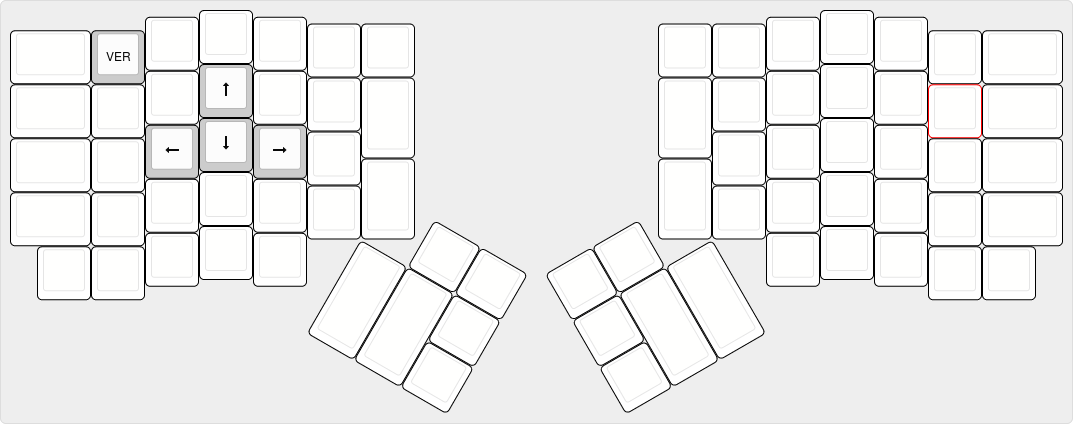
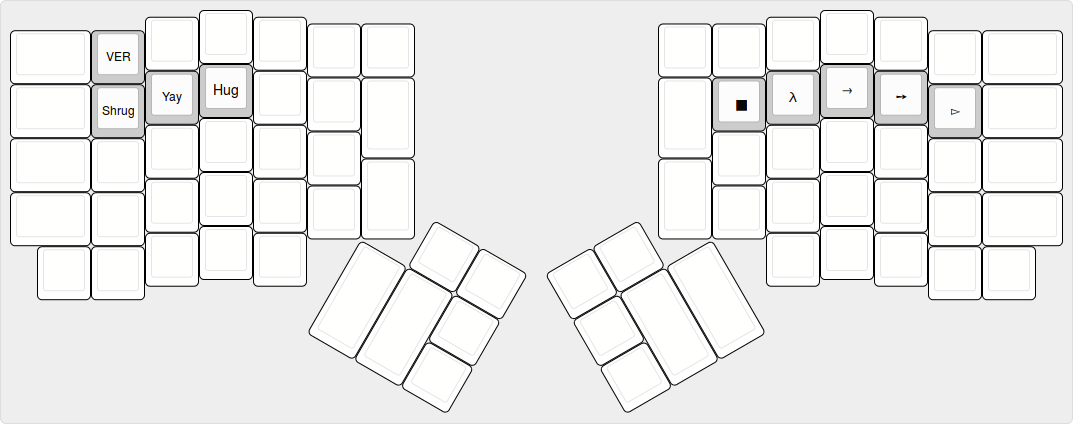
[deadcyclo layout] Added unicode layer

Changed region(s): [[0.0615, 0.1533, 0.3075, 0.4292], [0.6459, 0.1533, 0.9226, 0.3373], [0.0923, 0.1226, 0.123, 0.1533]]

diff --git a/keyboards/ergodox/keymaps/deadcyclo/keymap.c b/keyboards/ergodox/keymaps/deadcyclo/keymap.c
@@ -12,7 +12,10 @@ enum custom_keycodes {
   PLACEHOLDER = SAFE_RANGE, // can always be here
   EPRM,
   VRSN,
-  RGB_SLD
+  RGB_SLD,
+  SHRUG,
+  YAY,
+  HUG
 };
 
 // TODO: Get rid of of keys I don't want. Make others that I do. Set up lots of makros (Using hyper (and meh)) keys (where to put them?)
@@ -103,14 +106,14 @@ const uint16_t PROGMEM keymaps[][MATRIX_ROWS][MATRIX_COLS] = {
        KC_TRNS,
        EPRM, KC_DEL, KC_TRNS
 ),
-/* Keymap 2: Media and mouse keys
+/* Keymap 2: Media, mouse and navigation
  *
  * ,--------------------------------------------------.           ,--------------------------------------------------.
  * |        |      |      |      |      |      |      |           |      |      |      |      |      |      |        |
  * |--------+------+------+------+------+-------------|           |------+------+------+------+------+------+--------|
- * |        |      |      | MsUp |      |      |      |           |      |      |      |      |      |      |        |
+ * |        |      |      | MsUp |      |      |      |           |      |      |      |  Up  |      |      |        |
  * |--------+------+------+------+------+------|      |           |      |------+------+------+------+------+--------|
- * |        |      |MsLeft|MsDown|MsRght|      |------|           |------|      |      |      |      |      |  Play  |
+ * |        |      |MsLeft|MsDown|MsRght|      |------|           |------|      | Left | Down | Right|      |  Play  |
  * |--------+------+------+------+------+------|      |           |      |------+------+------+------+------+--------|
  * |        |      |      |      |      |      |      |           |      |      |      | Prev | Next |      |        |
  * `--------+------+------+------+------+-------------'           `-------------+------+------+------+------+--------'
@@ -124,7 +127,7 @@ const uint16_t PROGMEM keymaps[][MATRIX_ROWS][MATRIX_COLS] = {
  *                                 |      |      |      |       |      |      |      |
  *                                 `--------------------'       `--------------------'
  */
-// MEDIA AND MOUSE
+// MEDIA , MOUSE and NAVIGATION
 [MDIA] = KEYMAP(
        KC_TRNS, KC_TRNS, KC_TRNS, KC_TRNS, KC_TRNS, KC_TRNS, KC_TRNS,
        KC_TRNS, KC_TRNS, KC_TRNS, KC_MS_U, KC_TRNS, KC_TRNS, KC_TRNS,
@@ -135,24 +138,24 @@ const uint16_t PROGMEM keymaps[][MATRIX_ROWS][MATRIX_COLS] = {
                                                     KC_TRNS,
                                   KC_TRNS, KC_TRNS, KC_TRNS,
     // right hand
-       KC_TRNS,  KC_TRNS, KC_TRNS, KC_TRNS, KC_TRNS, KC_TRNS, KC_TRNS,
-       KC_TRNS,  KC_TRNS, KC_TRNS, KC_TRNS, KC_TRNS, KC_TRNS, KC_TRNS,
-                 KC_TRNS, KC_TRNS, KC_TRNS, KC_TRNS, KC_TRNS, KC_MPLY,
-       KC_TRNS,  KC_TRNS, KC_TRNS, KC_MPRV, KC_MNXT, KC_TRNS, KC_TRNS,
-                          KC_VOLU, KC_VOLD, KC_MUTE, KC_TRNS, KC_TRNS,
+       KC_TRNS,  KC_TRNS, KC_TRNS, KC_TRNS, KC_TRNS,  KC_TRNS, KC_TRNS,
+       KC_TRNS,  KC_TRNS, KC_TRNS, KC_UP,   KC_TRNS,  KC_TRNS, KC_TRNS,
+                 KC_TRNS, KC_LEFT, KC_DOWN, KC_RIGHT, KC_TRNS, KC_MPLY,
+       KC_TRNS,  KC_TRNS, KC_TRNS, KC_MPRV, KC_MNXT,  KC_TRNS, KC_TRNS,
+                          KC_VOLU, KC_VOLD, KC_MUTE,  KC_TRNS, KC_TRNS,
        KC_TRNS, KC_TRNS,
        KC_TRNS,
        KC_TRNS, KC_TRNS, KC_WBAK
 ),
 
-/* Keymap 3: Navigation TODO: Printscreen, pg up down, home, end, others? Insert for example
+/* Keymap 3: Unicode
  *
  * ,--------------------------------------------------.           ,--------------------------------------------------.
  * |        | VER  |      |      |      |      |      |           |      |      |      |      |      |      |        |
  * |--------+------+------+------+------+-------------|           |------+------+------+------+------+------+--------|
- * |        |      |      |  up  |      |      |      |           |      |      |      |      |      |      |        |
+ * |        | Shrug| yay  | hug  |      |      |      |           |      |  ■   |  λ   |  →   |  ➙   |  ▻   |        |
  * |--------+------+------+------+------+------|      |           |      |------+------+------+------+------+--------|
- * |        |      | left | down | right|      |------|           |------|      |      |      |      |      |        |
+ * |        |      |      |      |      |      |------|           |------|      |      |      |      |      |        |
  * |--------+------+------+------+------+------|      |           |      |------+------+------+------+------+--------|
  * |        |      |      |      |      |      |      |           |      |      |      |      |      |      |        |
  * `--------+------+------+------+------+-------------'           `-------------+------+------+------+------+--------'
@@ -166,11 +169,11 @@ const uint16_t PROGMEM keymaps[][MATRIX_ROWS][MATRIX_COLS] = {
  *                                 |      |      |      |       |      |      |      |
  *                                 `--------------------'       `--------------------'
  */
-// NAVIGATION
+// Unicode
 [NAVG] = KEYMAP(
        KC_TRNS, VRSN, KC_TRNS, KC_TRNS, KC_TRNS, KC_TRNS, KC_TRNS,
-       KC_TRNS, KC_TRNS, KC_TRNS, KC_UP, KC_TRNS, KC_TRNS, KC_TRNS,
-       KC_TRNS, KC_TRNS, KC_LEFT, KC_DOWN, KC_RGHT, KC_TRNS,
+       KC_TRNS, SHRUG, YAY, HUG, KC_TRNS, KC_TRNS, KC_TRNS,
+       KC_TRNS, KC_TRNS, KC_TRNS, KC_TRNS, KC_TRNS, KC_TRNS,
        KC_TRNS, KC_TRNS, KC_TRNS, KC_TRNS, KC_TRNS, KC_TRNS, KC_TRNS,
        KC_TRNS, KC_TRNS, KC_TRNS, KC_TRNS, KC_TRNS,
                                            KC_TRNS, KC_TRNS,
@@ -178,7 +181,7 @@ const uint16_t PROGMEM keymaps[][MATRIX_ROWS][MATRIX_COLS] = {
                                   KC_TRNS, KC_TRNS, KC_TRNS,
     // right hand
        KC_TRNS,  KC_TRNS, KC_TRNS, KC_TRNS, KC_TRNS, KC_TRNS, KC_TRNS,
-       KC_TRNS,  KC_TRNS, KC_TRNS, KC_TRNS, KC_TRNS, KC_TRNS, KC_TRNS,
+       KC_TRNS,  UC(0x25a0), UC(0x03bb), UC(0x2192), UC(0x2799), UC(0x25bb), KC_TRNS,
                  KC_TRNS, KC_TRNS, KC_TRNS, KC_TRNS, KC_TRNS, KC_TRNS,
        KC_TRNS,  KC_TRNS, KC_TRNS, KC_MPRV, KC_TRNS, KC_TRNS, KC_TRNS,
                           KC_TRNS, KC_TRNS, KC_TRNS, KC_TRNS, KC_TRNS,
@@ -191,6 +194,25 @@ const uint16_t PROGMEM keymaps[][MATRIX_ROWS][MATRIX_COLS] = {
 const uint16_t PROGMEM fn_actions[] = {
     [1] = ACTION_LAYER_TAP_TOGGLE(SYMB)                // FN1 - Momentary Layer 1 (Symbols)
 };
+
+static void ang_tap (uint16_t code, ...) {
+  uint16_t kc = code;
+  va_list ap;
+
+  va_start(ap, code);
+
+  do {
+    register_code16(kc);
+    unregister_code16(kc);
+    wait_ms(50);
+    kc = va_arg(ap, int);
+  } while (kc != 0);
+  va_end(ap);
+}
+
+#define TAP_ONCE(code)  \
+  register_code (code); \
+  unregister_code (code)
 
 const macro_t *action_get_macro(keyrecord_t *record, uint8_t id, uint8_t opt)
 {
@@ -233,13 +255,46 @@ bool process_record_user(uint16_t keycode, keyrecord_t *record) {
       }
       return false;
       break;
+  case SHRUG:
+      if (record->event.pressed) {
+	  unicode_input_start(); register_hex(0xaf); unicode_input_finish();
+	  TAP_ONCE (KC_BSLS);
+	  register_code (KC_RSFT); TAP_ONCE (KC_MINS); TAP_ONCE (KC_9); unregister_code (KC_RSFT);
+	  unicode_input_start (); register_hex(0x30c4); unicode_input_finish();
+	  register_code (KC_RSFT); TAP_ONCE (KC_0); TAP_ONCE (KC_MINS); unregister_code (KC_RSFT);
+	  TAP_ONCE (KC_SLSH);
+	  unicode_input_start (); register_hex(0xaf); unicode_input_finish();
+      }
+      return false;
+      break;
+  case YAY:
+      if (record->event.pressed) {
+	ang_tap (KC_BSLS, KC_O, KC_SLSH, 0);
+      }
+      return false;
+      break;
+ case HUG:
+   if (record->event.pressed) {
+     unicode_input_start(); register_hex(0x0f3c); unicode_input_finish();
+     TAP_ONCE (KC_SPC);
+     unicode_input_start(); register_hex(0x3064); unicode_input_finish();
+     TAP_ONCE (KC_SPC);
+     unicode_input_start(); register_hex(0x25d5); unicode_input_finish();
+     unicode_input_start(); register_hex(0x005f); unicode_input_finish();
+     unicode_input_start(); register_hex(0x25d5); unicode_input_finish();
+     TAP_ONCE (KC_SPC);
+     unicode_input_start(); register_hex(0x0f3d); unicode_input_finish();
+     unicode_input_start(); register_hex(0x3064); unicode_input_finish();
+   }
+      return false;
+      break;
   }
   return true;
 }
 
 // Runs just one time when the keyboard initializes.
 void matrix_init_user(void) {
-
+  set_unicode_input_mode(UC_LNX);
 };
 
 // Runs constantly in the background, in a loop.

diff --git a/keyboards/ergodox/keymaps/deadcyclo/readme.md b/keyboards/ergodox/keymaps/deadcyclo/readme.md
@@ -28,26 +28,41 @@ TOG, are dual purpose. Hence for example the top left key produces ESC
 if tapped, and temporarilly toggles L3 when hold down. The two center
 L1 TOG keys toggle L1 on and off for more permanent layer toggling.
 
-## Layer 1 - Symbols
+## Layer 1 - Symbols and RGB
 
-[![Layer 1 - Symbols](images/deadcyclo-layer-1-symbols.png)](http://www.keyboard-layout-editor.com/#/gists/96714e198054c9115bafb5267cc6bc73)
+[![Layer 1 - Symbols and RGB](images/deadcyclo-layer-1-symbols.png)](http://www.keyboard-layout-editor.com/#/gists/96714e198054c9115bafb5267cc6bc73)
 
-## Layer 2 - Media and Mouse
+The Symbols and RGB layer contains function keys, commonly used
+symbols, a numpad and if you have the new Ergodox Ez shine keys for
+controlling various RGB-led functions. In addition, it provides an up
+and a down key for easy scrolling. RGB controller keys are yellow.
 
-[![Layer 2 - Media and Mouse](images/deadcyclo-layer-2-media-and-mouse.png)](http://www.keyboard-layout-editor.com/#/gists/824759486e378bcec30784309a7e5731)
+## Layer 2 - Media, Mouse and Navigation
 
-## Layer 3 - Navigation
+[![Layer 2 - Media, Mouse and Navigation](images/deadcyclo-layer-2-media-and-mouse.png)](http://www.keyboard-layout-editor.com/#/gists/824759486e378bcec30784309a7e5731)
 
-[![Layer 3 - Navigation](images/deadcyclo-layer-3-navigation.png)](http://www.keyboard-layout-editor.com/#/gists/67d9613dcd873c68693d11863d0fd289)
+The Media, Mouse and unicode layer contains special keys for moving
+the mouse and clicking on it with the keyboard. In addition it
+provides standard media control keys, and default arrow keys.
+
+## Layer 3 - Unicode
+
+[![Layer 3 - Unicode](images/deadcyclo-layer-3-navigation.png)](http://www.keyboard-layout-editor.com/#/gists/67d9613dcd873c68693d11863d0fd289)
+
+The unicode layer provides keys for directly typing unicode (utf-8)
 
 # Changelog
 
 - 02.01.2017 Added delete key on second layer
 - 10.01.2017 Added layer images to readme
 - 24.01.2017 Added support for Ergodox Shine. Added secondary L2 switch key on left hand
+- 24.01.2017 Added unicode keys. Added shrug hug and yay. Moved Navigation to layer 2
 
 # TODO
 
-- Add unicode support (direct input and indirect? see algernon layout for examples)
-- Add descriptions below each layer image of any special functions/keys
-- Move Navigation keys to Layer 2 on right side, add a layer switch to L2 on left side as well, and use L3 for unicode stuff
+- Add support for unicode by name? (See algernon layout for example)
+- Add macros for lots of stuff. (Lastpass cli, pushbullet cli, other push service cli, linode cli, more?)
+- Make macros for gnu screen and i3wm
+- Look into the app launch macros in algernon keymap
+- Make other smileys like shrug and yay ¯\_(ツ)_/¯ and \o/ and others (see amon others [http://dongerlist.com](http://dongerlist.com)
+
